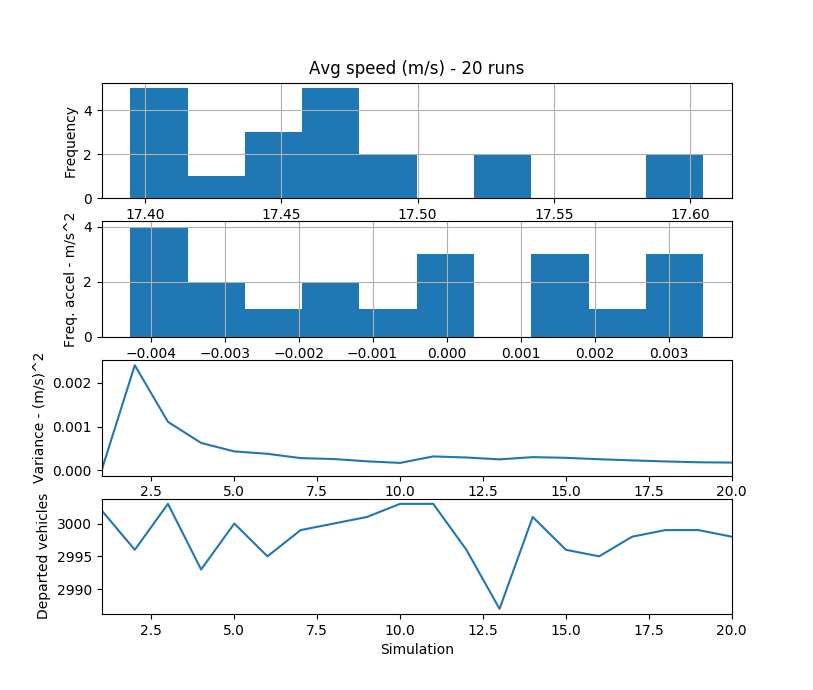
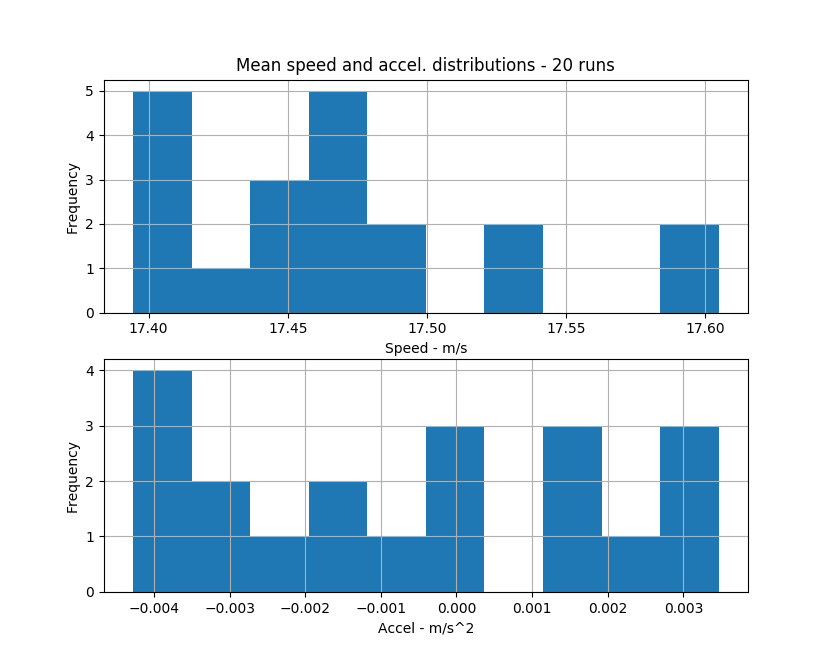
Mixed vehicles: make cleaner plots

Changed region(s): [[0.0308, 0.0902, 0.9225, 0.9624], [0.8918, 0.9023, 0.9225, 0.9323]]

diff --git a/lab2/mixed_vehicles/plot.py b/lab2/mixed_vehicles/plot.py
@@ -18,17 +18,17 @@ print("Mean speed: {} m/s".format(df['mean_speed'].mean()))
 print("Mean accel: {} m/s^2".format(df['mean_accel'].mean()))
 print("Mean departed: {}".format(df['departed'].mean()))
 
-fig, (p1,p2,p3,p4) = plt.subplots(4,1,sharex=False, sharey=False)
+fig, (p1,p2) = plt.subplots(2,1,sharex=False, sharey=False)
 
 df['mean_speed'].hist(ax=p1)
-p1.set_title("Avg speed (m/s) - {} runs".format(len(df)))
+p1.set_title("Mean speed and accel. distributions - {} runs".format(len(df)))
 p1.set_xlabel("Speed - m/s")
 p1.set_ylabel("Frequency")
 
 df['mean_accel'].hist(ax=p2)
-p2.set_ylabel("Freq. accel - m/s^2")
-p2.set_xlabel("Simulation")
-
+p2.set_xlabel("Accel - m/s^2")
+p2.set_ylabel("Frequency")
+'''
 df['cum_variance2'].plot(ax=p3, use_index=True)
 p3.set_xlabel("Simulation")
 p3.set_ylabel("Variance - (m/s)^2")
@@ -36,4 +36,5 @@ p3.set_ylabel("Variance - (m/s)^2")
 df['departed'].plot(ax=p4, use_index=True)
 p4.set_xlabel("Simulation")
 p4.set_ylabel("Departed vehicles")
+'''
 plt.show()
